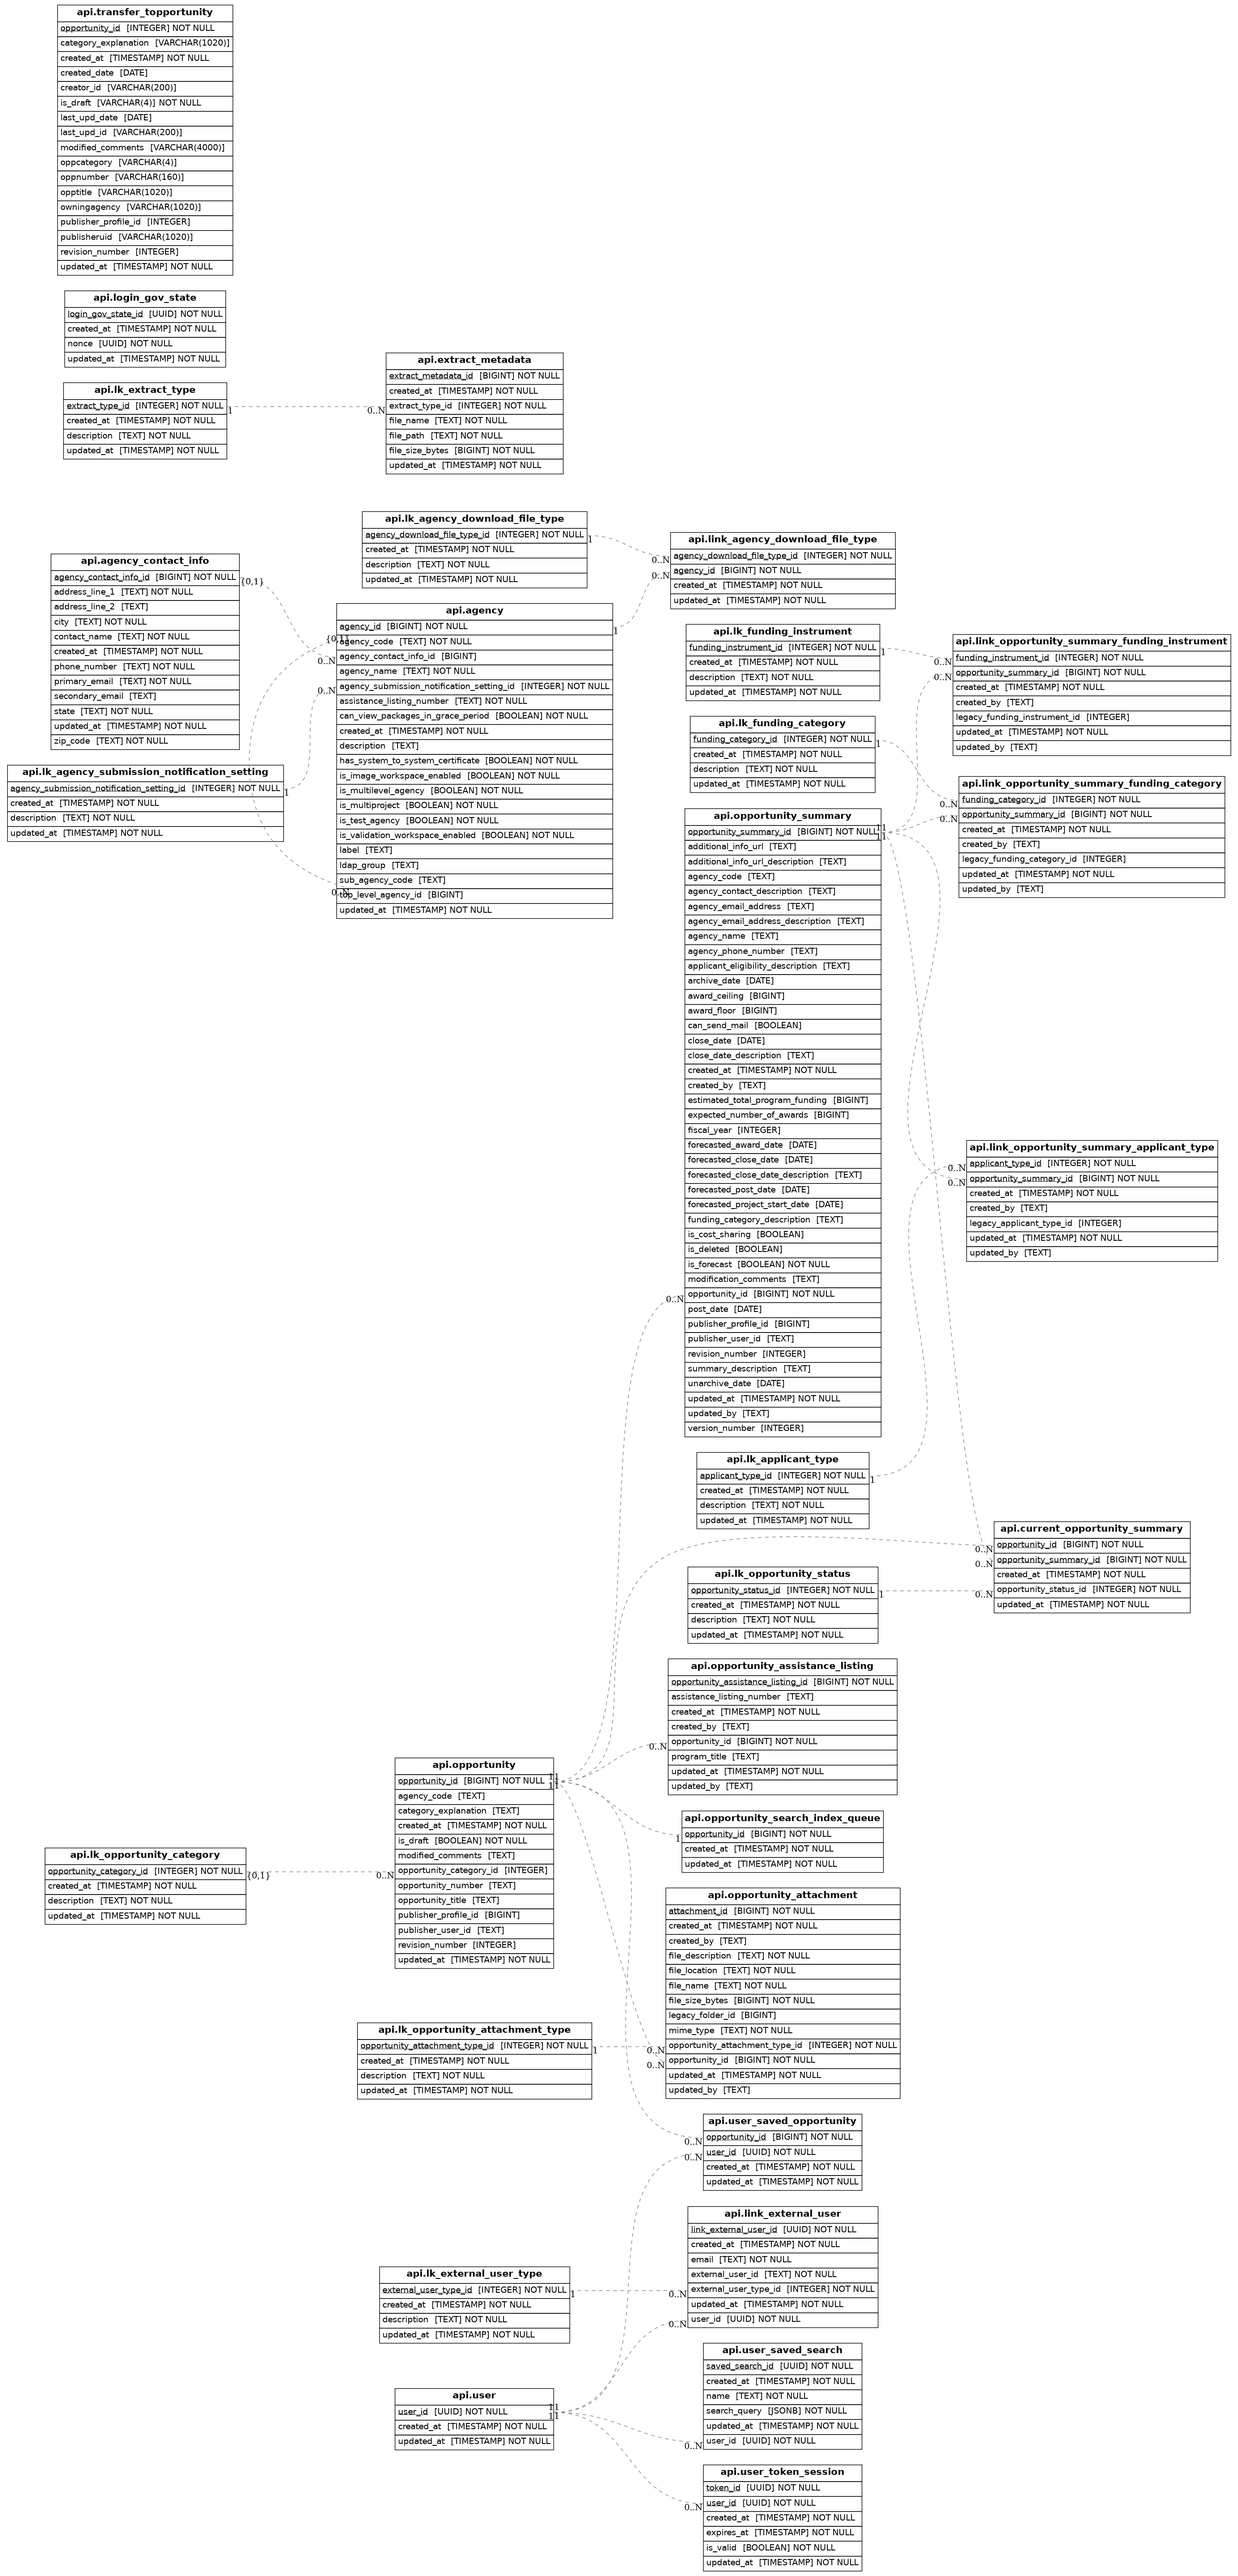
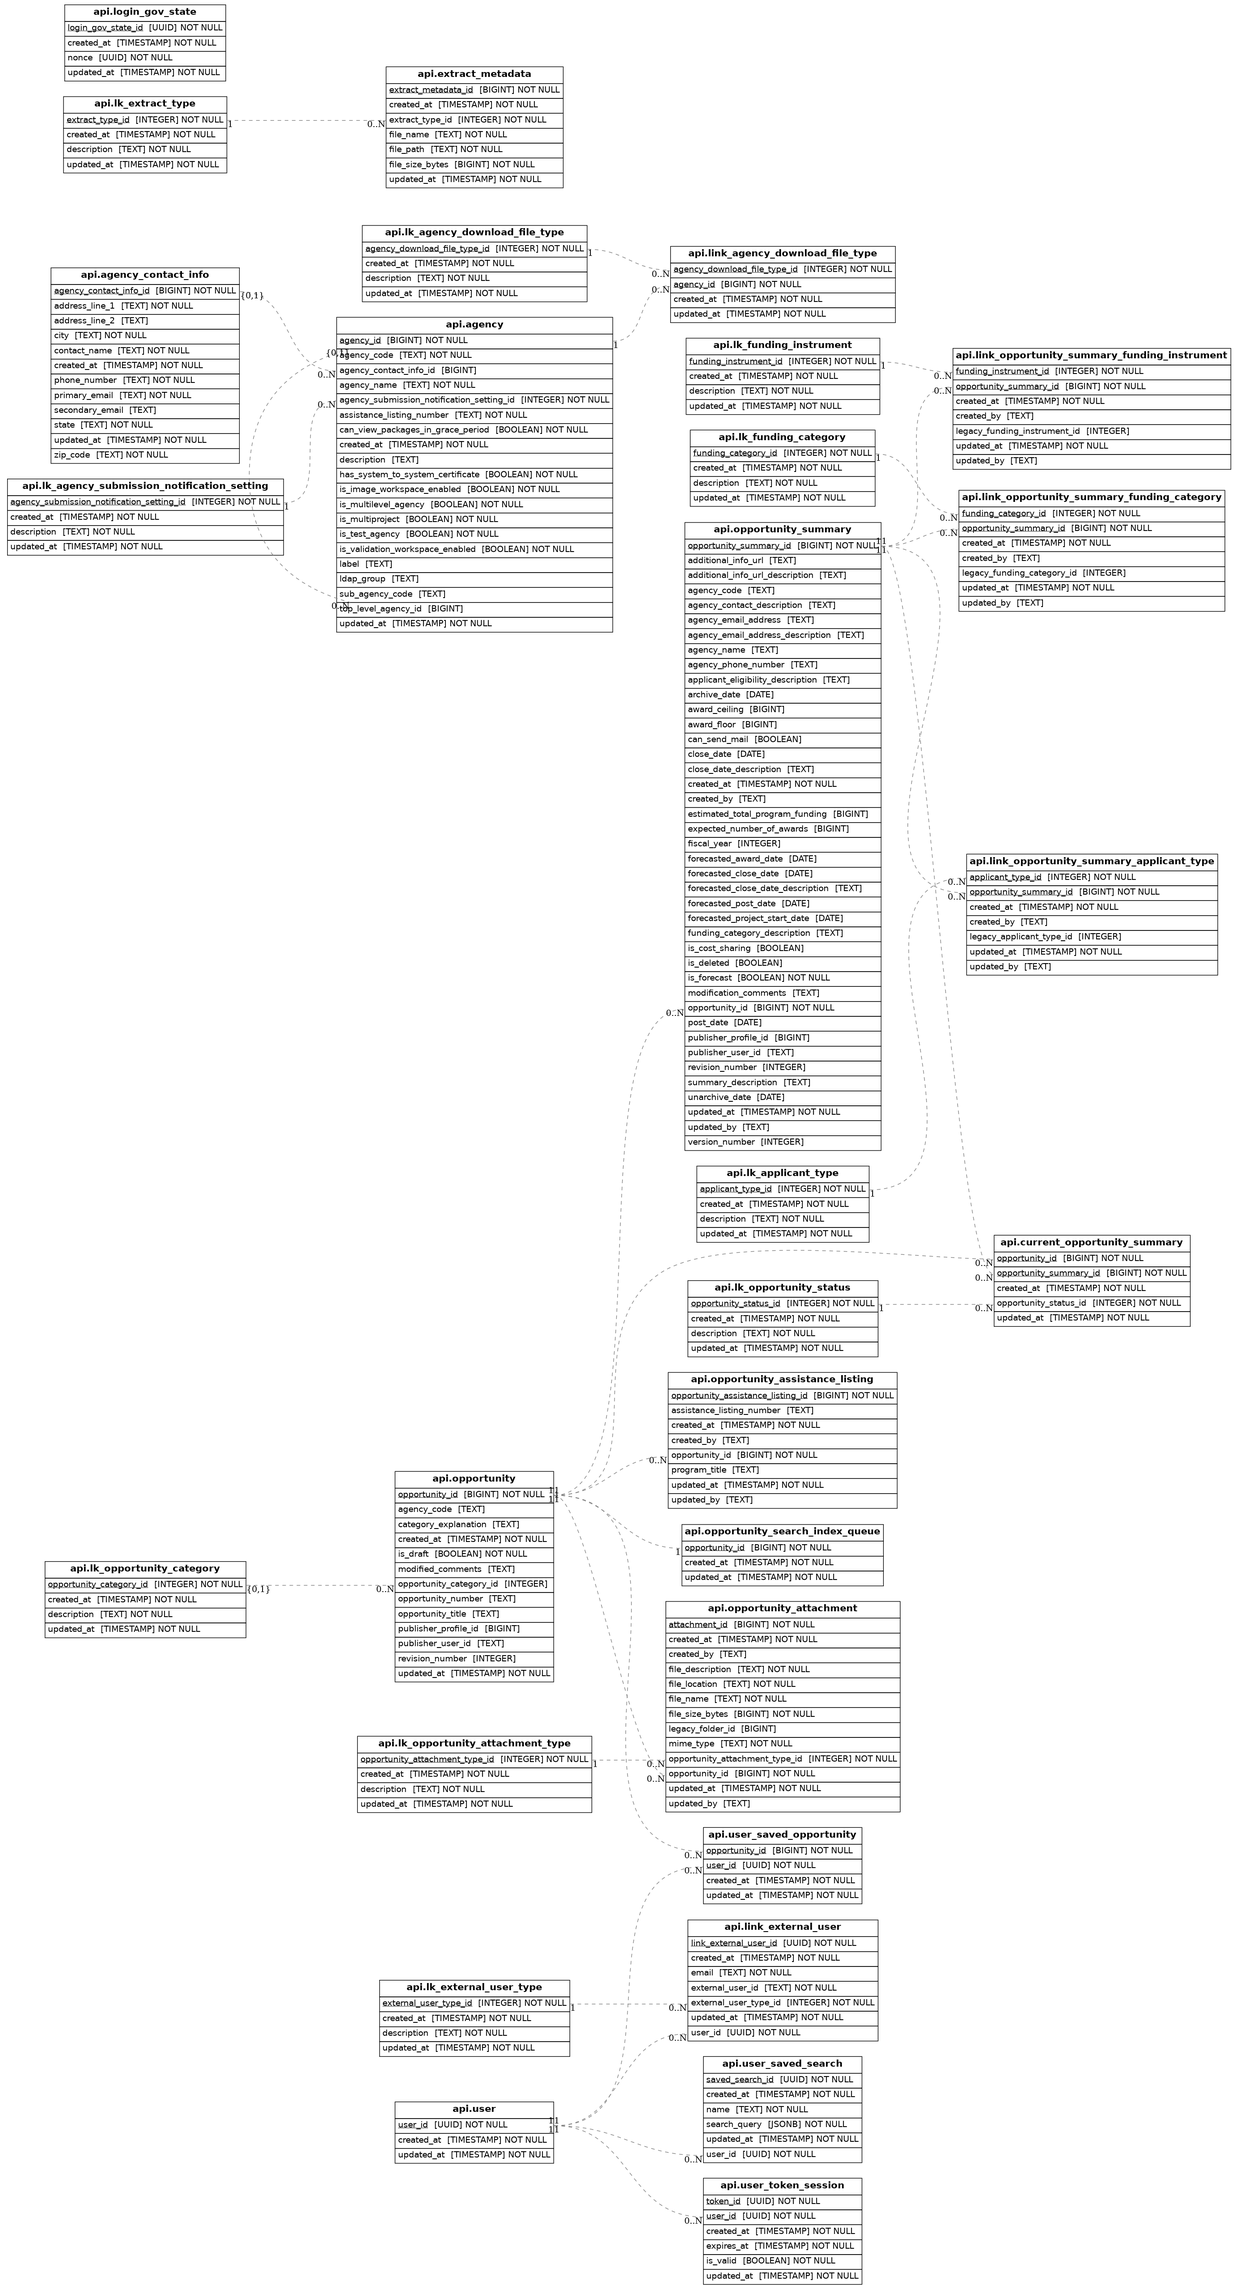
[Issue #2553] Cleanup v0 and v0.1 opportunity endpoints (backend/db) [3/3] (#3411)
## Summary
Fixes #2553

### Time to review: 10 mins

## Changes proposed

Removes
https://github.com/HHS/simpler-grants-gov/blob/main/api/src/db/models/transfer/topportunity_models.py
+ generate migrations to remove this table
Removes
https://github.com/HHS/simpler-grants-gov/blob/main/api/src/data_migration/copy_oracle_data.py
- the script that loads data into the transfer table (Note there will be
some infra we want to remove to no longer schedule this job as well)
Transfer table removed
DB migration generated

## Context for reviewers
Final PR to clean up v0 and v0.1 opportunity endpoints, along with
supporting backend tasks.
Note, when PR #3409 is merged then the build errors will go away from
this PR.

diff --git a/api/src/db/migrations/versions/2025_01_06_remove_transfertopportunity_models.py b/api/src/db/migrations/versions/2025_01_06_remove_transfertopportunity_models.py
@@ -1,0 +1,94 @@
+"""Remove TransferTopportunity models
+
+Revision ID: 99bb8e01ad38
+Revises: 232a9223ed9b
+Create Date: 2025-01-06 21:25:41.127922
+
+"""
+
+import sqlalchemy as sa
+from alembic import op
+from sqlalchemy.dialects import postgresql
+
+# revision identifiers, used by Alembic.
+revision = "99bb8e01ad38"
+down_revision = "cc2912373d5b"
+branch_labels = None
+depends_on = None
+
+
+def upgrade():
+    # ### commands auto generated by Alembic - please adjust! ###
+    op.drop_index(
+        "transfer_topportunity_is_draft_idx", table_name="transfer_topportunity", schema="api"
+    )
+    op.drop_index(
+        "transfer_topportunity_oppcategory_idx", table_name="transfer_topportunity", schema="api"
+    )
+    op.drop_index(
+        "transfer_topportunity_opptitle_idx", table_name="transfer_topportunity", schema="api"
+    )
+    op.drop_table("transfer_topportunity", schema="api")
+    # ### end Alembic commands ###
+
+
+def downgrade():
+    # ### commands auto generated by Alembic - please adjust! ###
+    op.create_table(
+        "transfer_topportunity",
+        sa.Column("opportunity_id", sa.INTEGER(), autoincrement=True, nullable=False),
+        sa.Column("oppnumber", sa.VARCHAR(length=160), autoincrement=False, nullable=True),
+        sa.Column("opptitle", sa.VARCHAR(length=1020), autoincrement=False, nullable=True),
+        sa.Column("owningagency", sa.VARCHAR(length=1020), autoincrement=False, nullable=True),
+        sa.Column("oppcategory", sa.VARCHAR(length=4), autoincrement=False, nullable=True),
+        sa.Column(
+            "category_explanation", sa.VARCHAR(length=1020), autoincrement=False, nullable=True
+        ),
+        sa.Column("is_draft", sa.VARCHAR(length=4), autoincrement=False, nullable=False),
+        sa.Column("revision_number", sa.INTEGER(), autoincrement=False, nullable=True),
+        sa.Column("modified_comments", sa.VARCHAR(length=4000), autoincrement=False, nullable=True),
+        sa.Column("publisheruid", sa.VARCHAR(length=1020), autoincrement=False, nullable=True),
+        sa.Column("publisher_profile_id", sa.INTEGER(), autoincrement=False, nullable=True),
+        sa.Column("last_upd_id", sa.VARCHAR(length=200), autoincrement=False, nullable=True),
+        sa.Column("last_upd_date", sa.DATE(), autoincrement=False, nullable=True),
+        sa.Column("creator_id", sa.VARCHAR(length=200), autoincrement=False, nullable=True),
+        sa.Column("created_date", sa.DATE(), autoincrement=False, nullable=True),
+        sa.Column(
+            "created_at",
+            postgresql.TIMESTAMP(timezone=True),
+            server_default=sa.text("now()"),
+            autoincrement=False,
+            nullable=False,
+        ),
+        sa.Column(
+            "updated_at",
+            postgresql.TIMESTAMP(timezone=True),
+            server_default=sa.text("now()"),
+            autoincrement=False,
+            nullable=False,
+        ),
+        sa.PrimaryKeyConstraint("opportunity_id", name="transfer_topportunity_pkey"),
+        schema="api",
+    )
+    op.create_index(
+        "transfer_topportunity_opptitle_idx",
+        "transfer_topportunity",
+        ["opptitle"],
+        unique=False,
+        schema="api",
+    )
+    op.create_index(
+        "transfer_topportunity_oppcategory_idx",
+        "transfer_topportunity",
+        ["oppcategory"],
+        unique=False,
+        schema="api",
+    )
+    op.create_index(
+        "transfer_topportunity_is_draft_idx",
+        "transfer_topportunity",
+        ["is_draft"],
+        unique=False,
+        schema="api",
+    )
+    # ### end Alembic commands ###

diff --git a/api/tests/src/db/models/factories.py b/api/tests/src/db/models/factories.py
@@ -24,7 +24,6 @@ import src.db.models.extract_models as extract_models
 import src.db.models.foreign as foreign
 import src.db.models.opportunity_models as opportunity_models
 import src.db.models.staging as staging
-import src.db.models.transfer.topportunity_models as transfer_topportunity_models
 import src.db.models.user_models as user_models
 import src.util.datetime_util as datetime_util
 from src.constants.lookup_constants import (
@@ -1395,44 +1394,6 @@ class StagingTsynopsisAttachmentFactory(TsynopsisAttachmentFactory, AbstractStag
 
     opportunity = factory.SubFactory(StagingTopportunityFactory)
     opportunity_id = factory.LazyAttribute(lambda o: o.opportunity.opportunity_id)
-
-
-####################################
-# Transfer Table Factories
-####################################
-
-
-class TransferTopportunityFactory(BaseFactory):
-    class Meta:
-        model = transfer_topportunity_models.TransferTopportunity
-
-    opportunity_id = factory.Sequence(lambda n: n)
-
-    oppnumber = factory.Sequence(lambda n: f"ABC-{n}-XYZ-001")
-    opptitle = factory.LazyFunction(lambda: f"Detailed research into {fake.job()} industry")
-
-    owningagency = factory.Faker("agency_code")
-
-    oppcategory = factory.fuzzy.FuzzyChoice(OpportunityCategoryLegacy)
-    # only set the category explanation if category is Other
-    category_explanation = factory.Maybe(
-        decider=factory.LazyAttribute(lambda o: o.oppcategory == OpportunityCategoryLegacy.OTHER),
-        yes_declaration=factory.Sequence(lambda n: f"Category as chosen by order #{n * n - 1}"),
-        no_declaration=None,
-    )
-
-    is_draft = "N"  # Because we filter out drafts, just default these to False
-
-    revision_number = 0
-
-    # Make sure updated_at is after created_at just to make the data realistic
-    created_at = factory.Faker("date_time")
-    updated_at = factory.LazyAttribute(
-        lambda o: fake.date_time_between(start_date=o.created_at, end_date="now")
-    )
-
-    created_date = factory.LazyAttribute(lambda o: o.created_at.date())
-    last_upd_date = factory.LazyAttribute(lambda o: o.updated_at.date())
 
 
 ####################################

diff --git a/api/src/data_migration/__init__.py b/api/src/data_migration/__init__.py
@@ -3,7 +3,6 @@ from src.data_migration.data_migration_blueprint import data_migration_blueprint
 from . import command  # noqa: F401
 
 # import any of the other files so they get initialized and attached to the blueprint
-import src.data_migration.copy_oracle_data  # noqa: F401 E402 isort:skip
 import src.data_migration.setup_foreign_tables  # noqa: F401 E402 isort:skip
 
 __all__ = ["data_migration_blueprint"]

diff --git a/api/src/db/models/__init__.py b/api/src/db/models/__init__.py
@@ -1,7 +1,6 @@
 import logging
 
 from . import agency_models, base, extract_models, lookup_models, opportunity_models, user_models
-from .transfer import topportunity_models
 
 logger = logging.getLogger(__name__)
 
@@ -13,7 +12,6 @@ __all__ = [
     "metadata",
     "opportunity_models",
     "lookup_models",
-    "topportunity_models",
     "agency_models",
     "user_models",
     "extract_models",
